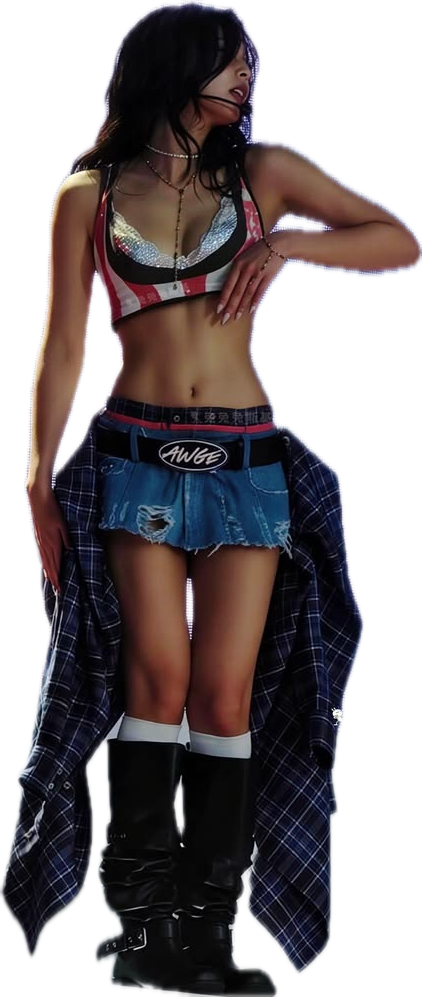
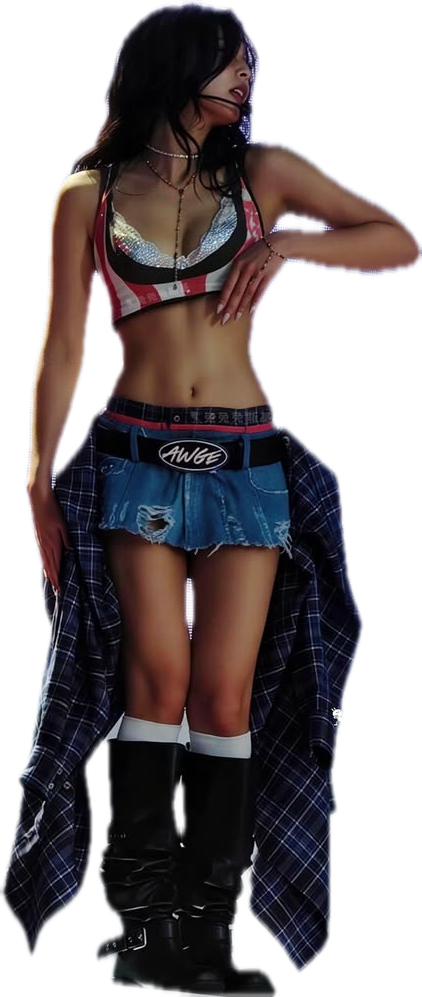
feat(frontend): usa tres fotos recortadas de una misma sesión en blanco y negro en el Lookbook

diff --git a/frontend/src/components/home/PosterLookbook.jsx b/frontend/src/components/home/PosterLookbook.jsx
@@ -6,40 +6,33 @@ import {
   useSpring,
   useTransform,
 } from "motion/react";
-import heroCenter from "../../assets/cutouts/hero-center.webp";
-import heroLeft from "../../assets/cutouts/hero-left.webp";
-import heroRight from "../../assets/cutouts/hero-right.webp";
-import footerStage from "../../assets/cutouts/footer-stage.webp";
+import sessionKneel from "../../assets/cutouts/session-kneel.webp";
+import sessionPose from "../../assets/cutouts/session-pose.webp";
+import sessionSeat from "../../assets/cutouts/session-seat.webp";
 
 // Figuras recortadas, de atrás hacia delante. `box` da su posición y alto (en % de la sección) para
-// móvil y, con el prefijo md:, para escritorio (en móvil se muestran solo dos); `depth` es cuántos px
+// móvil y, con el prefijo md:, para escritorio (en móvil se muestran solo dos). Las tres son de la
+// misma sesión en blanco y negro, así que se ven unificadas; `depth` es cuántos px
 // se desplazan con el mouse (más = más cerca).
 const FIGURES = [
   {
-    src: heroCenter,
-    alt: "Bailarina con gafas oscuras",
-    box: "hidden md:block md:left-[72%] md:h-[66%]",
-    depth: 12,
-    z: 10,
-  },
-  {
-    src: heroLeft,
-    alt: "Retrato en blanco y negro con gorro",
-    box: "hidden md:block md:left-[5%] md:h-[72%]",
+    src: sessionSeat,
+    alt: "Jennie sentada, de perfil, con chaqueta de cuero",
+    box: "left-[2%] h-[46%] md:left-[4%] md:h-[62%]",
     depth: 16,
     z: 20,
   },
   {
-    src: heroRight,
-    alt: "Jennie con una chaqueta de mezclilla",
-    box: "left-[38%] h-[52%] md:left-[50%] md:h-[76%]",
+    src: sessionKneel,
+    alt: "Jennie de rodillas sobre un banco, mirando a cámara",
+    box: "hidden md:block md:left-[66%] md:h-[70%]",
     depth: 22,
     z: 20,
   },
   {
-    src: footerStage,
-    alt: "Figura de pie con botas",
-    box: "bottom-[6%] left-[6%] h-[58%] md:bottom-[7%] md:left-[30%] md:h-[84%]",
+    src: sessionPose,
+    alt: "Jennie en una pierna con el cuerpo arqueado",
+    box: "left-[44%] h-[58%] md:left-[39%] md:h-[88%]",
     depth: 32,
     z: 30,
   },
@@ -159,7 +152,7 @@ function PosterLookbook() {
             src={figure.src}
             alt={figure.alt}
             loading="lazy"
-            className="h-full w-auto max-w-none object-contain object-bottom [filter:drop-shadow(0_28px_34px_rgba(0,0,0,0.65))]"
+            className="h-full w-auto max-w-none object-contain object-bottom [filter:contrast(1.08)_drop-shadow(0_28px_34px_rgba(0,0,0,0.65))]"
           />
         </Layer>
       ))}
@@ -170,8 +163,8 @@ function PosterLookbook() {
           Lookbook · 2026
         </p>
         <p className="mt-4 hidden font-display text-xs leading-relaxed text-white/70 sm:block">
-          Prendas, accesorios y música del universo Ruby. Cuatro miradas, un
-          mismo rojo.
+          Prendas, accesorios y música del universo Ruby. Tres poses, una
+          sesión, un mismo rojo.
         </p>
         <Link
           to="/catalogo"

diff --git a/frontend/scripts/clean-cutouts.py b/frontend/scripts/clean-cutouts.py
@@ -27,10 +27,24 @@ ERASE = {
         [(0, 380), (188, 380), (200, 445), (196, 470), (150, 500), (100, 506), (0, 512)],
         [(0, 505), (110, 505), (110, 548), (0, 548)],
     ],
+    # Sesión en blanco y negro: la banca blanca queda pegada a las figuras sentadas.
+    "session-kneel": [
+        [(0, 812), (395, 812), (428, 832), (436, 895), (0, 895)],
+    ],
+    "session-seat": [
+        [(0, 797), (400, 797), (428, 815), (440, 848), (0, 848)],
+    ],
 }
 
 # nombre -> píxeles que se contrae el borde (quita el halo del fondo original) antes de suavizarlo
-ERODE = {"hero-right": 2, "hero-center": 1, "footer-stage": 1}
+ERODE = {
+    "hero-right": 2,
+    "hero-center": 1,
+    "footer-stage": 1,
+    "session-kneel": 2,
+    "session-pose": 2,
+    "session-seat": 2,
+}
 
 for name, polygons in ERASE.items():
     path = CUTOUTS / f"{name}.png"

diff --git a/docs/manual-programador.md b/docs/manual-programador.md
@@ -180,7 +180,7 @@ Todo el movimiento respeta `prefers-reduced-motion: reduce` (CSS en `index.css`,
 | Marco y barra del navegador | `BrandFrame.jsx`, `utils/brandTheme.js` | Borde fijo de 5 px (solo desde 768 px, sin capturar clics) con un brillo que se desliza; y `<meta name="theme-color">` actualizada por ruta. El color es rojo ruby (`#D6001C`) o el de la colección en `/colecciones/:slug`. |
 | Detalle de producto | `ProductDetail.jsx`, `ImageLightbox.jsx`, `VariantSelector.jsx` | Cuadrícula `1fr 26rem`: galería de una foto a la vez, siempre completa (`object-contain`): en escritorio las fotos se apilan con fundido y el mouse elige la activa según su posición horizontal (`handleStageMove`; vuelve a la primera al salir); en móvil es una tira con `scroll-snap` de una foto por pantalla cuyo índice sigue al deslizamiento. Sin avance automático. Puntos clicables abajo a la derecha y columna de compra negra (`#0d0d0d`) con talla, cantidad y botón rojo. `ImageLightbox` es el visor (portal, teclado ← → Esc). Las tallas sin existencias para el color elegido salen tachadas y deshabilitadas; arranca en la primera variante con stock. |
 | Hero | `JennieHero.jsx` | Titular condensado (Antonio) y foto en blanco y negro enmarcada; la foto se limita al alto de la ventana. |
-| Lookbook tipo póster | `PosterLookbook.jsx`, `assets/cutouts/*.webp` | Sección de pantalla completa (`h-screen`): «RUBY» enorme en rojo atrás, cuatro figuras recortadas delante que lo tapan en parte (con `drop-shadow`) y «JENNIE» acostada en el suelo con perspectiva (`rotateX`). Cada capa se desplaza con el mouse a distinta velocidad (`depth`, con `motion`) y entra subiendo. En móvil solo se muestran dos figuras. Las figuras se declaran en `FIGURES` con su posición para móvil y para `md:`. Los recortes se sirven en WebP (60 a 100 KB) generados a partir de los PNG. |
+| Lookbook tipo póster | `PosterLookbook.jsx`, `assets/cutouts/*.webp` | Sección de pantalla completa (`h-screen`): «RUBY» enorme en rojo atrás, tres figuras recortadas de una misma sesión en blanco y negro delante, que lo tapan en parte (con `drop-shadow`) y «JENNIE» acostada en el suelo con perspectiva (`rotateX`). Cada capa se desplaza con el mouse a distinta velocidad (`depth`, con `motion`) y entra subiendo. En móvil solo se muestran dos figuras. Los recortes `session-*` salen de `scripts/make-cutouts.sh` (la banca blanca se borra en `clean-cutouts.py`). Las figuras se declaran en `FIGURES` con su posición para móvil y para `md:`. Los recortes se sirven en WebP (60 a 100 KB) generados a partir de los PNG. |
 | Tarjetas de colecciones | `CollectionCards.jsx`, `data/collections.js` | Una tarjeta 4:5 por colección con su foto (`bannerImage` o `image`, con `bannerPosition`/`imagePosition`); tres lado a lado desde `md` y tira con `scroll-snap` en móvil. Al hover, zoom y sube la frase con el botón (solo con `hover: hover`). |
 | Tienda con pestañas | `ShopTabs.jsx` | Pestañas Todo y una por categoría con 4 productos (`ProductCard`). Carga categorías y catálogo una vez y filtra en el cliente; «Todo» muestra un producto de cada categoría. «Ver todo» enlaza a `/catalogo?categoria=…`. |
 | FAQs (3 preguntas) | `FaqSection.jsx`, `data/faqs.js` | Acordeón accesible (`aria-expanded`), animación de altura con `grid-template-rows`. |

diff --git a/docs/manual-usuario.md b/docs/manual-usuario.md
@@ -17,7 +17,7 @@ Al entrar verás, de arriba abajo:
 1. **Encabezado:** el logo **Ruby.** al centro con los íconos de **Spotify**, **Instagram** y **YouTube** debajo; las secciones (**Tienda**, **Ropa**, **Abrigos**, **Accesorios**, **Música**) repartidas a ambos lados; y a la derecha tres íconos: lupa (buscar), persona (cuenta) y bolsa (carrito). Al bajar por la página, el encabezado se hace más pequeño y no se pierde de vista.
 2. **Portada:** el titular **«Wanna rock with this?»**, una foto de Jennie y los botones **Ver tienda** y **Colecciones**.
 3. **Colecciones:** tres tarjetas con su foto, una por colección: **Fallen Angel** (lila), **JENNIE x Haribo** (amarillo) y **JENNIE x Ruby** (negro y rojo). Al pasar el mouse sobre una tarjeta aparecen su frase y el botón **Ver colección**. En el celular se deslizan de lado.
-4. **Lookbook:** una sección de pantalla completa con la palabra **RUBY** en rojo y cuatro fotos recortadas que se cruzan con ella; al mover el mouse, las fotos se desplazan un poco para dar profundidad.
+4. **Lookbook:** una sección de pantalla completa con la palabra **RUBY** en rojo y tres fotos recortadas de una misma sesión que se cruzan con ella; al mover el mouse, las fotos se desplazan un poco para dar profundidad.
 5. **Elige lo tuyo:** una mini tienda con pestañas (**Todo**, **Ropa**, **Abrigos**, **Accesorios** y **Música**) que muestra cuatro productos de la categoría elegida sin salir de la página. **Ver todo** abre el catálogo ya filtrado.
 6. **Preguntas frecuentes (FAQs):** las tres preguntas esenciales; pulsa una para ver la respuesta.
 7. **Pie de página:** al llegar al final de la página de inicio aparece poco a poco, con la marca en grande y tres columnas de enlaces: **Colecciones**, **Cuenta** (catálogo, mi cuenta, carrito y acceso de administrador) y **Sígueme** (redes). En el resto de las páginas (catálogo, colecciones y productos) el pie es una franja delgada con la marca, los enlaces principales y las redes.
